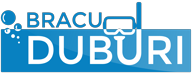
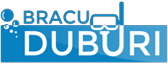
[FIX] [Homepage] More Lighthouse-flagged performance and a11y fixes
- Converted two gallery video thumbnails to WebP and tightened the
  oversized BRACU Duburi logo further, per PageSpeed's flagged savings
- Added explicit width/height to Selected Work logos to guard against
  layout shift
- Made the Fun section's duplicate responsive heading non-semantic and
  aria-hidden, so only one real <h2> exists in the DOM

diff --git a/web/src/data/selected-work.ts b/web/src/data/selected-work.ts
@@ -4,6 +4,10 @@ export interface WorkItem {
 	title: string;
 	description: string;
 	logo?: string;
+	// Intrinsic dimensions of `logo`, so the <img> can reserve its layout
+	// space before loading (prevents layout shift).
+	logoWidth?: number;
+	logoHeight?: number;
 	icon?: 'youtube';
 	href?: string;
 	linkLabel?: string;
@@ -21,6 +25,8 @@ export const selectedWorkTeaser = {
 			description:
 				"Public, reviewed pull requests to Odoo's core codebase under @adns-odoo — ERP features, fixes, and production business logic.",
 			logo: '/work/odoo.png',
+			logoWidth: 300,
+			logoHeight: 131,
 			href: 'https://github.com/odoo/odoo/pulls?q=is%3Apr+author%3Aadns-odoo',
 			linkLabel: 'View contributions',
 			tags: [tags.erpSystems, tags.backendSystems],
@@ -32,6 +38,8 @@ export const selectedWorkTeaser = {
 			description:
 				'Backend and distributed systems work on the gamification team at Cefalo Bangladesh Ltd, scaling House of Math’s learning platform to 2M+ users.',
 			logo: '/work/house-of-math.svg',
+			logoWidth: 234,
+			logoHeight: 45,
 			href: 'https://www.houseofmath.com/',
 			linkLabel: 'Visit site',
 			tags: [tags.edtech, tags.backendSystems],
@@ -43,6 +51,8 @@ export const selectedWorkTeaser = {
 			description:
 				'Founded and led the first team from Bangladesh in an international autonomous underwater robotics challenge.',
 			logo: '/work/bracu-duburi.png',
+			logoWidth: 168,
+			logoHeight: 64,
 			href: 'https://bracu-duburi.github.io/#/auv/duburi_2',
 			linkLabel: 'View project',
 			tags: [tags.robotics],

diff --git a/web/src/data/fun.ts b/web/src/data/fun.ts
@@ -63,7 +63,7 @@ export const funGallery = {
 			number: 7,
 			caption: 'Hiking through the rocky canyon of Wadi Naqab.',
 			type: 'video',
-			image: '/gallary_images/7.jpg',
+			image: '/gallary_images/7.webp',
 			video: '/gallary_images/7.mp4',
 			active: true,
 		},
@@ -86,7 +86,7 @@ export const funGallery = {
 			number: 4,
 			caption: 'Riding a motorcycle down a countryside road.',
 			type: 'video',
-			image: '/gallary_images/4.jpg',
+			image: '/gallary_images/4.webp',
 			video: '/gallary_images/4.mp4',
 			active: true,
 		},
